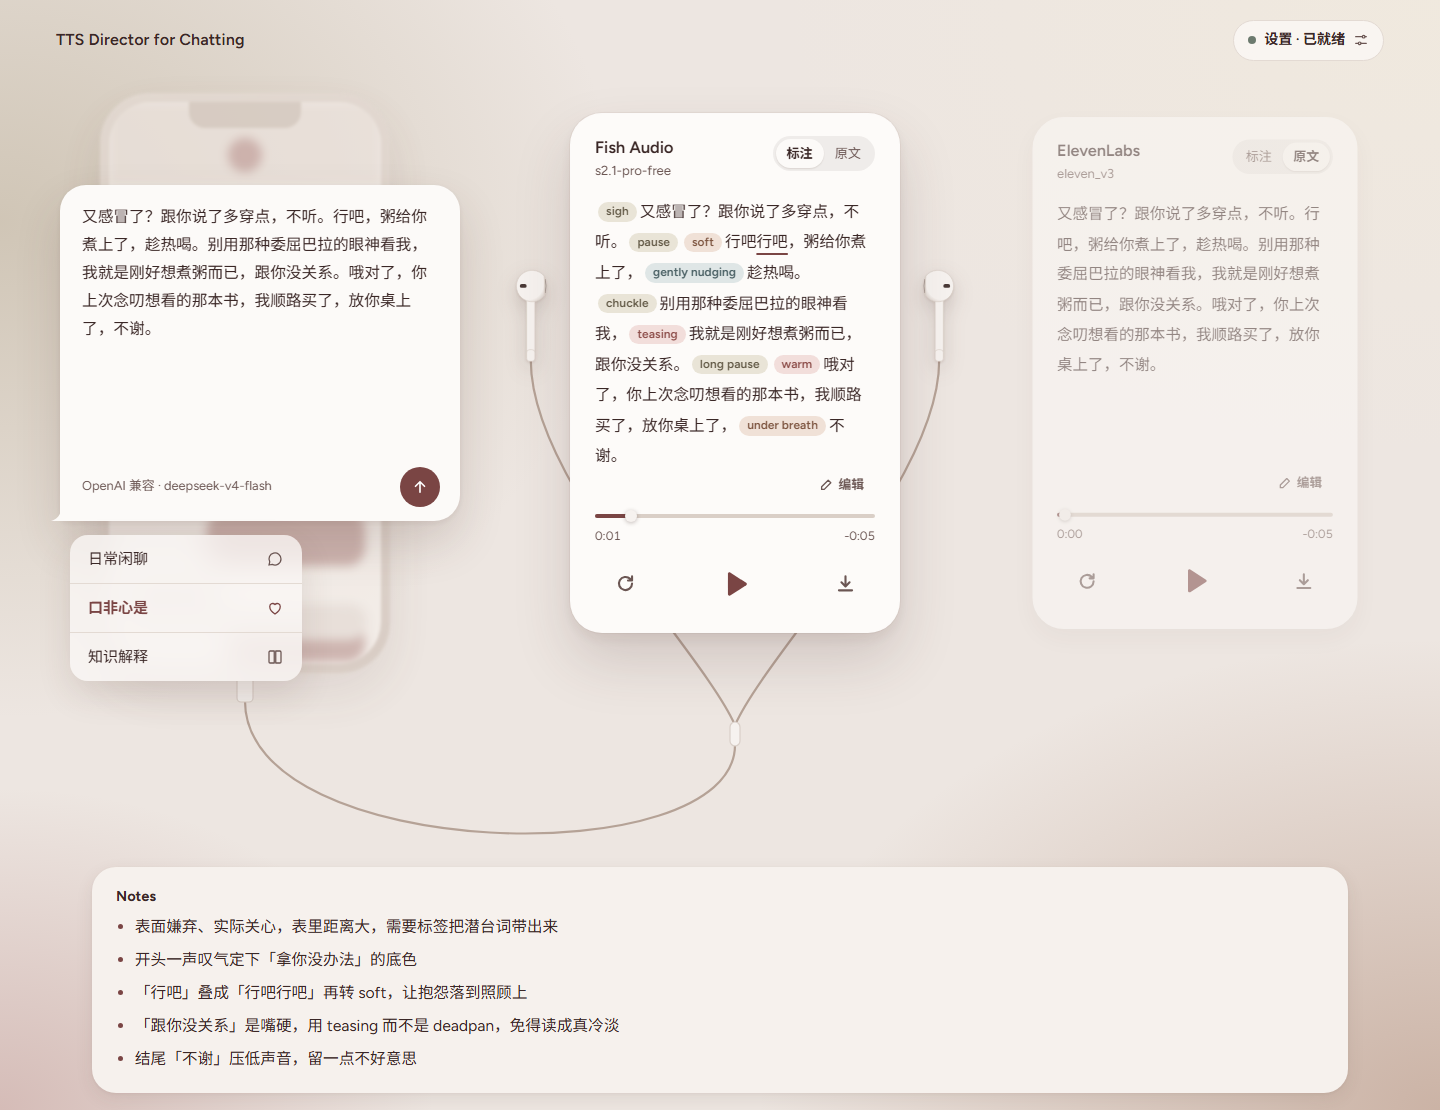
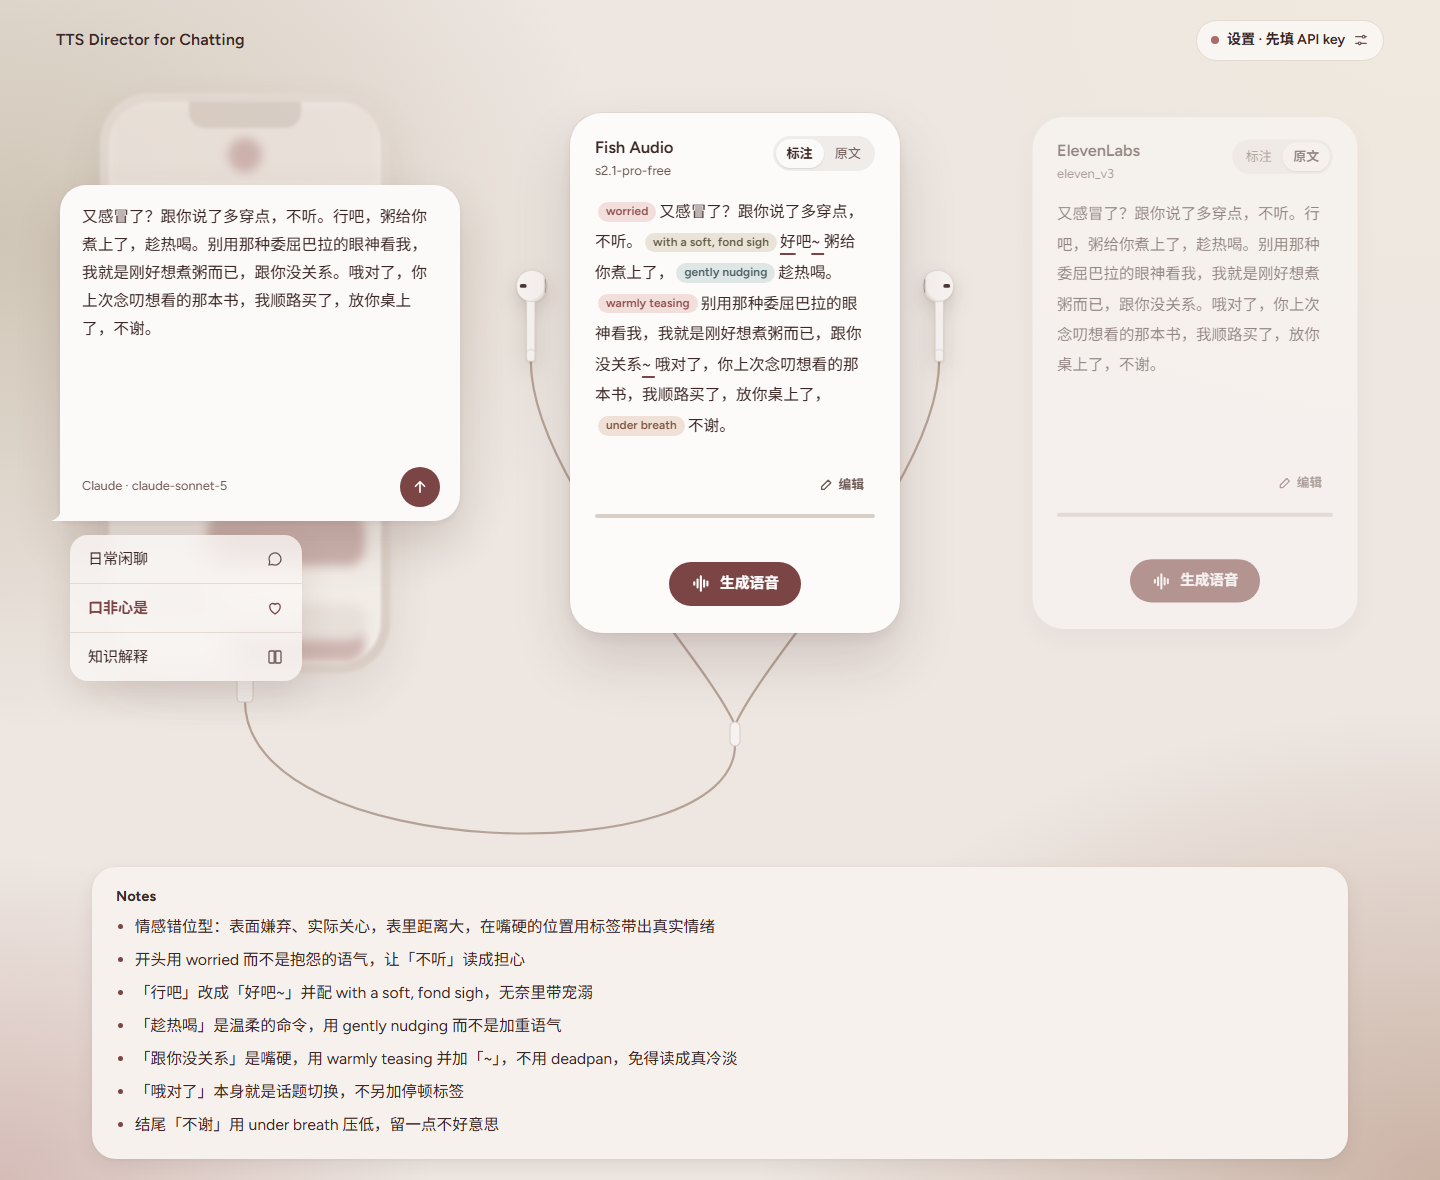
Show an annotated sample on first load
Visitors now land on the 口非心是 example already annotated (text and
Notes only, no pre-generated audio), so the skill's effect is visible
before any API key is entered. The settings panel no longer opens
automatically on first visit. README screenshot shows this default
state.

diff --git a/demo/public/app.js b/demo/public/app.js
@@ -32,6 +32,15 @@ const PRESETS = {
   explain: "可以试试。冷藏和冷冻针对的问题其实不一样——冷藏主要是减缓细菌繁殖，但没法完全停住，熟食放冷藏也就三四天；冷冻是把水分变成冰晶，让细菌基本停止活动，能放更久，只是口感会打点折扣。这两天就吃，冷藏够了；想留久一点，就放冷冻。",
 };
 
+// 打开页面时默认展示的一份标注结果（「口非心是」示例），让没填 key 的访客也能先看到 skill 的效果。
+// 内容由 Claude 按仓库根目录的 skill 规则标注；改了 skill 规则后记得重新标一遍再替换这里。
+// 只放文字，不放预生成的语音（音色授权问题）。
+const DEFAULT_SAMPLE = {
+  preset: "mismatch",
+  annotated: "[worried] 又感冒了？跟你说了多穿点，不听。[with a soft, fond sigh] 好吧~ 粥给你煮上了，[gently nudging] 趁热喝。[warmly teasing] 别用那种委屈巴拉的眼神看我，我就是刚好想煮粥而已，跟你没关系~ 哦对了，你上次念叨想看的那本书，我顺路买了，放你桌上了，[under breath] 不谢。",
+  strategy: "情感错位型：表面嫌弃、实际关心，表里距离大，在嘴硬的位置用标签带出真实情绪。开头用 worried 而不是抱怨的语气，让「不听」读成担心；「行吧」改成「好吧~」并配 with a soft, fond sigh，无奈里带宠溺；「趁热喝」是温柔的命令，用 gently nudging 而不是加重语气；「跟你没关系」是嘴硬，用 warmly teasing 并加「~」，不用 deadpan，免得读成真冷淡；「哦对了」本身就是话题切换，不另加停顿标签；结尾「不谢」用 under breath 压低，留一点不好意思。",
+};
+
 // ---- 图标（自绘 SVG，currentColor 上色） ----
 
 const ICONS = {
@@ -1169,17 +1178,32 @@ function fitStage() {
 }
 window.addEventListener("resize", fitStage);
 
+// ---- 默认示例：打开页面就有一份标注好的结果 ----
+
+function showDefaultSample() {
+  const original = PRESETS[DEFAULT_SAMPLE.preset];
+  el("inputText").value = original;
+  presetButtons.forEach((b) => b.setAttribute("aria-pressed", String(b.dataset.preset === DEFAULT_SAMPLE.preset)));
+  lastOriginalText = original;
+  lastAnnotatedText = DEFAULT_SAMPLE.annotated;
+  for (const engine of Object.keys(columns)) {
+    columns[engine].text.value = columns[engine].toggle.checked ? lastAnnotatedText : lastOriginalText;
+    renderColumn(engine);
+  }
+  renderStrategyNote(DEFAULT_SAMPLE.strategy);
+  el("strategyNote").hidden = false;
+}
+
 // ---- 初始化 ----
 // loadSettings() 直接给 checked/value 赋值，不会触发 change 事件，所以这里要手动把依赖这些状态的 UI 同步一遍。
 
 loadSettings();
 updateProviderFieldsVisibility();
 updateSettingsStatus();
-renderColumn("fish");
-renderColumn("eleven");
+showDefaultSample();
 renderHistory("fish");
 renderHistory("eleven");
 fitStage();
 select("fish", true);
 requestAnimationFrame(budFrame);
-if (readiness().count === 0) setSettingsOpen(true);
+// 不再在首次访问时自动展开设置：默认示例要先被看到，设置胶囊上会显示「先填 API key」

diff --git a/CLAUDE.md b/CLAUDE.md
@@ -102,7 +102,7 @@
 - **标签胶囊 + 改写比对**：气泡默认不是 textarea，而是只读的渲染视图（`#fishView`/`#elevenView`），点"编辑"才切到真正的 `<textarea>`（`#fishText`/`#elevenText`，朗读永远读 textarea 的值）。`tokenize()` 把 `[tag]` 和 `<|phoneme_start|>…<|phoneme_end|>` 拆出来，`classifyTag()` 按 `s2-pro-tags.md` 的分类给胶囊上色（情绪 / 停顿呼吸 / 音色语调 / 动作；没收录的标签按关键词兜底），悬停显示中文说明。`buildSegments()` 对"原文"和"去掉标签后的标注文本"做逐字 LCS 比对，标出 skill 改写过的字句（下划线）；原文/标注开关切换时只是给视图换 `is-raw`/`is-annotated` class，句子原地不动、标签胶囊收起展开。超过 `DIFF_CELL_LIMIT` 的长文本跳过比对，只显示标签。**改 `s2-pro-tags.md` 新增标签类别时，记得同步 `app.js` 里的 `TAG_INFO`。**
 - **播放器替代了原生 `<audio controls>`**：`<audio>` 元素还在但不显示控件，由卡片底部的细进度条（`.voice-wave`，可点击/方向键定位）+ 已播/剩余时间 + 「重新生成 / 播放 / 下载」三个按钮驱动；还没生成时只显示一个居中的「生成语音」按钮（`.voice-note[data-state]`：empty / loading / ready / regenerating）。时长用 `OfflineAudioContext.decodeAudioData` 解码拿到（metadata 没到时也能先显示）。同一时间只播一条（`pauseAllExcept()`），`#compare[data-listening]` 记录正在播哪边。
 - **耳机动效**（`app.js` 里「耳机」一节）：`select(engine)` 选中一张卡——鼠标悬停、键盘聚焦、开始播放、点开始标注都会触发——没选中的那张加 `.is-dim` 退后。耳机位置不走 CSS transition，而是 `requestAnimationFrame` 每帧算：临界阻尼弹簧直接到位（不回弹）→ 停在挂点外上方 9px 定 220ms → 560ms 沿斜线滑进挂点；朝哪边走哪边那只先动，另一只晚 140ms（迟到的那次起步要先检查 `currentEngine` 还是不是它，否则连续快速切换时会跑回上一张卡，踩过）。耳机线 `drawCables()` 每帧按耳机实际位置重画。耳机 SVG（`BUD_SVG`）用 `--bud`/`--bud-edge`/`--bud-flat` token 上色，层级在卡片下面（`z-index` 1 < 卡片 2），不会挡字。用户对耳机的要求很具体：切口有厚度、柄等宽、动作要"干脆地挂住"而不是 Q 弹回弹——改之前先看 `DESIGN.md` 的 Earphones 一节。
-- **首次访问**：没填任何 key 时设置面板自动展开；顶栏的设置胶囊显示"还差 N 项"/"已就绪"（`updateSettingsStatus()`）。标注/生成时缺 key 会在对应位置给出行内提示并自动打开设置，不再用 `alert()`。
+- **首次访问**：页面一打开就显示一份标注好的「口非心是」示例（`app.js` 顶部的 `DEFAULT_SAMPLE`，`showDefaultSample()` 在初始化时填进气泡、两张卡和 Notes），没填 key 的访客也能先看到效果。这份标注是 Claude 按仓库里的 skill 规则做的，**改了 skill 规则后要重新标一遍再替换**。只放文字、不放预生成的语音：公开音频涉及音色授权问题，用户决定不做。因为要让示例先被看到，设置面板不再在首次访问时自动展开；顶栏的设置胶囊显示"还差 N 项"/"已就绪"（`updateSettingsStatus()`）。标注/生成时缺 key 会在对应位置给出行内提示并自动打开设置，不再用 `alert()`。
 
 **踩过的坑（下次遇到类似症状直接查这里，不用重新排查）：**
 

diff --git a/demo/README.md b/demo/README.md
@@ -18,7 +18,9 @@ npm start
 
 ## 使用
 
-1. 点顶栏右上角的"设置"（第一次打开、还没填任何 key 时会自动展开）：
+页面一打开会先显示一份标注好的「口非心是」示例（只有文字，没有预生成的语音），不填 key 也能先看看 skill 的标注效果。想自己试：
+
+1. 点顶栏右上角的"设置"：
    - **标注引擎**：选 Claude，或者选"OpenAI 兼容接口"——后者可以填任何兼容 OpenAI `/chat/completions` 格式的服务（OpenAI 官方、DeepSeek、Moonshot、自建网关、本地跑的模型……），填 Base URL、API Key、模型名即可，不锁定某一家。
    - **Fish Audio**：API Key + Voice ID（reference_id，在 fish.audio 网站上找喜欢的音色复制 ID）+ 模型（`s2.1-pro-free` / `s2.1-pro` / `s2-pro` / `s1`，不填默认免费的 `s2.1-pro-free`）。
    - **ElevenLabs**：API Key + Voice ID（在 ElevenLabs 网站 Voices 页面复制）+ 模型（`eleven_v3` / `eleven_multilingual_v2` / `eleven_flash_v2_5` / `eleven_turbo_v2_5`，不填默认 `eleven_v3`）。

diff --git a/DESIGN.md b/DESIGN.md
@@ -302,7 +302,7 @@ iPhone 播放页式的输出卡：顶部引擎名 + 模型名，右侧「标注 
 - **分段控件：** 凹陷底轨道，选中块变纸白并带浮起-低。
 
 ### Navigation
-- **顶栏：** 左边只有品牌名（小号 600），右边只有设置胶囊。设置胶囊：状态圆点（玫瑰色 = 还差 key，灰绿 = 已就绪）+「设置 · 先填 API key / 还差 N 项 / 已就绪」+ 调节图标。没填任何 key 时设置面板自动展开。
+- **顶栏：** 左边只有品牌名（小号 600），右边只有设置胶囊。设置胶囊：状态圆点（玫瑰色 = 还差 key，灰绿 = 已就绪）+「设置 · 先填 API key / 还差 N 项 / 已就绪」+ 调节图标。首次访问不自动展开设置面板，先让默认示例被看到。
 
 ### Director Note
 标注策略说明是舞台下方的一张备注卡：备注底色、24px 圆角、浮起-中，首行标题「Notes」，正文按句号/分号拆成要点列表（引号、括号里的标点不断句），0.98rem / 1.85，项目符号用檀木红，测量上限 90ch。
